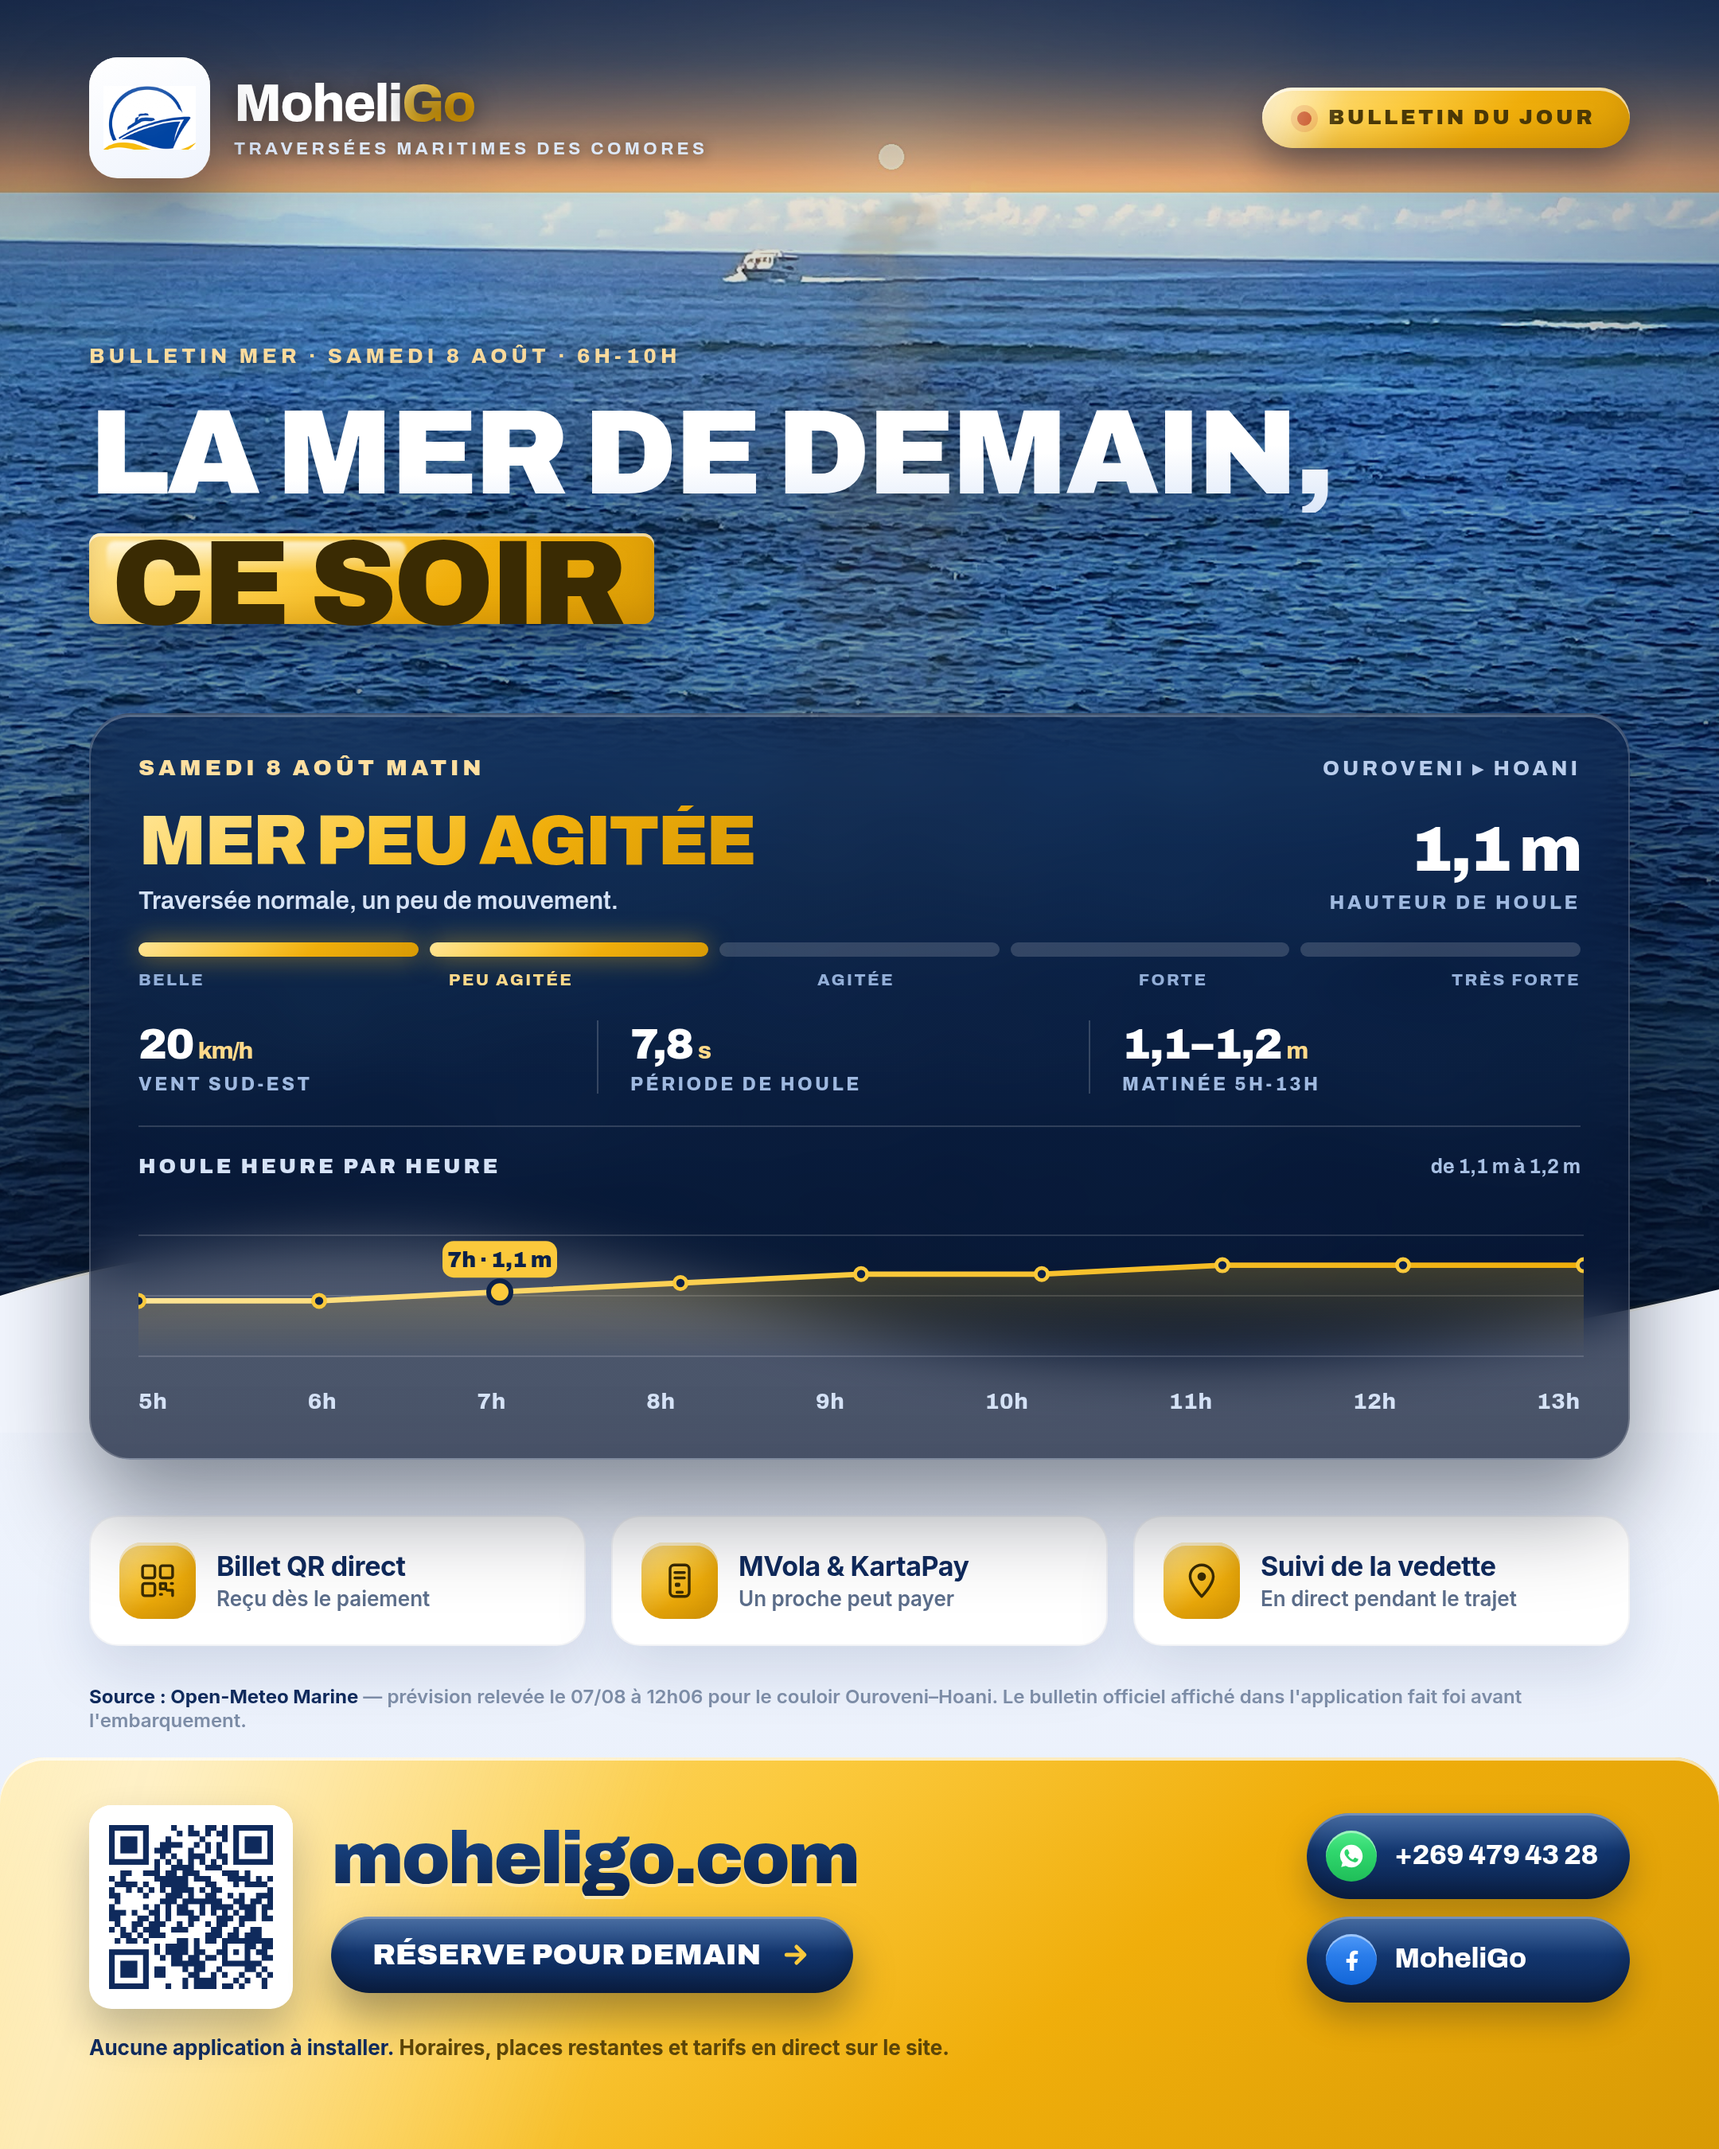
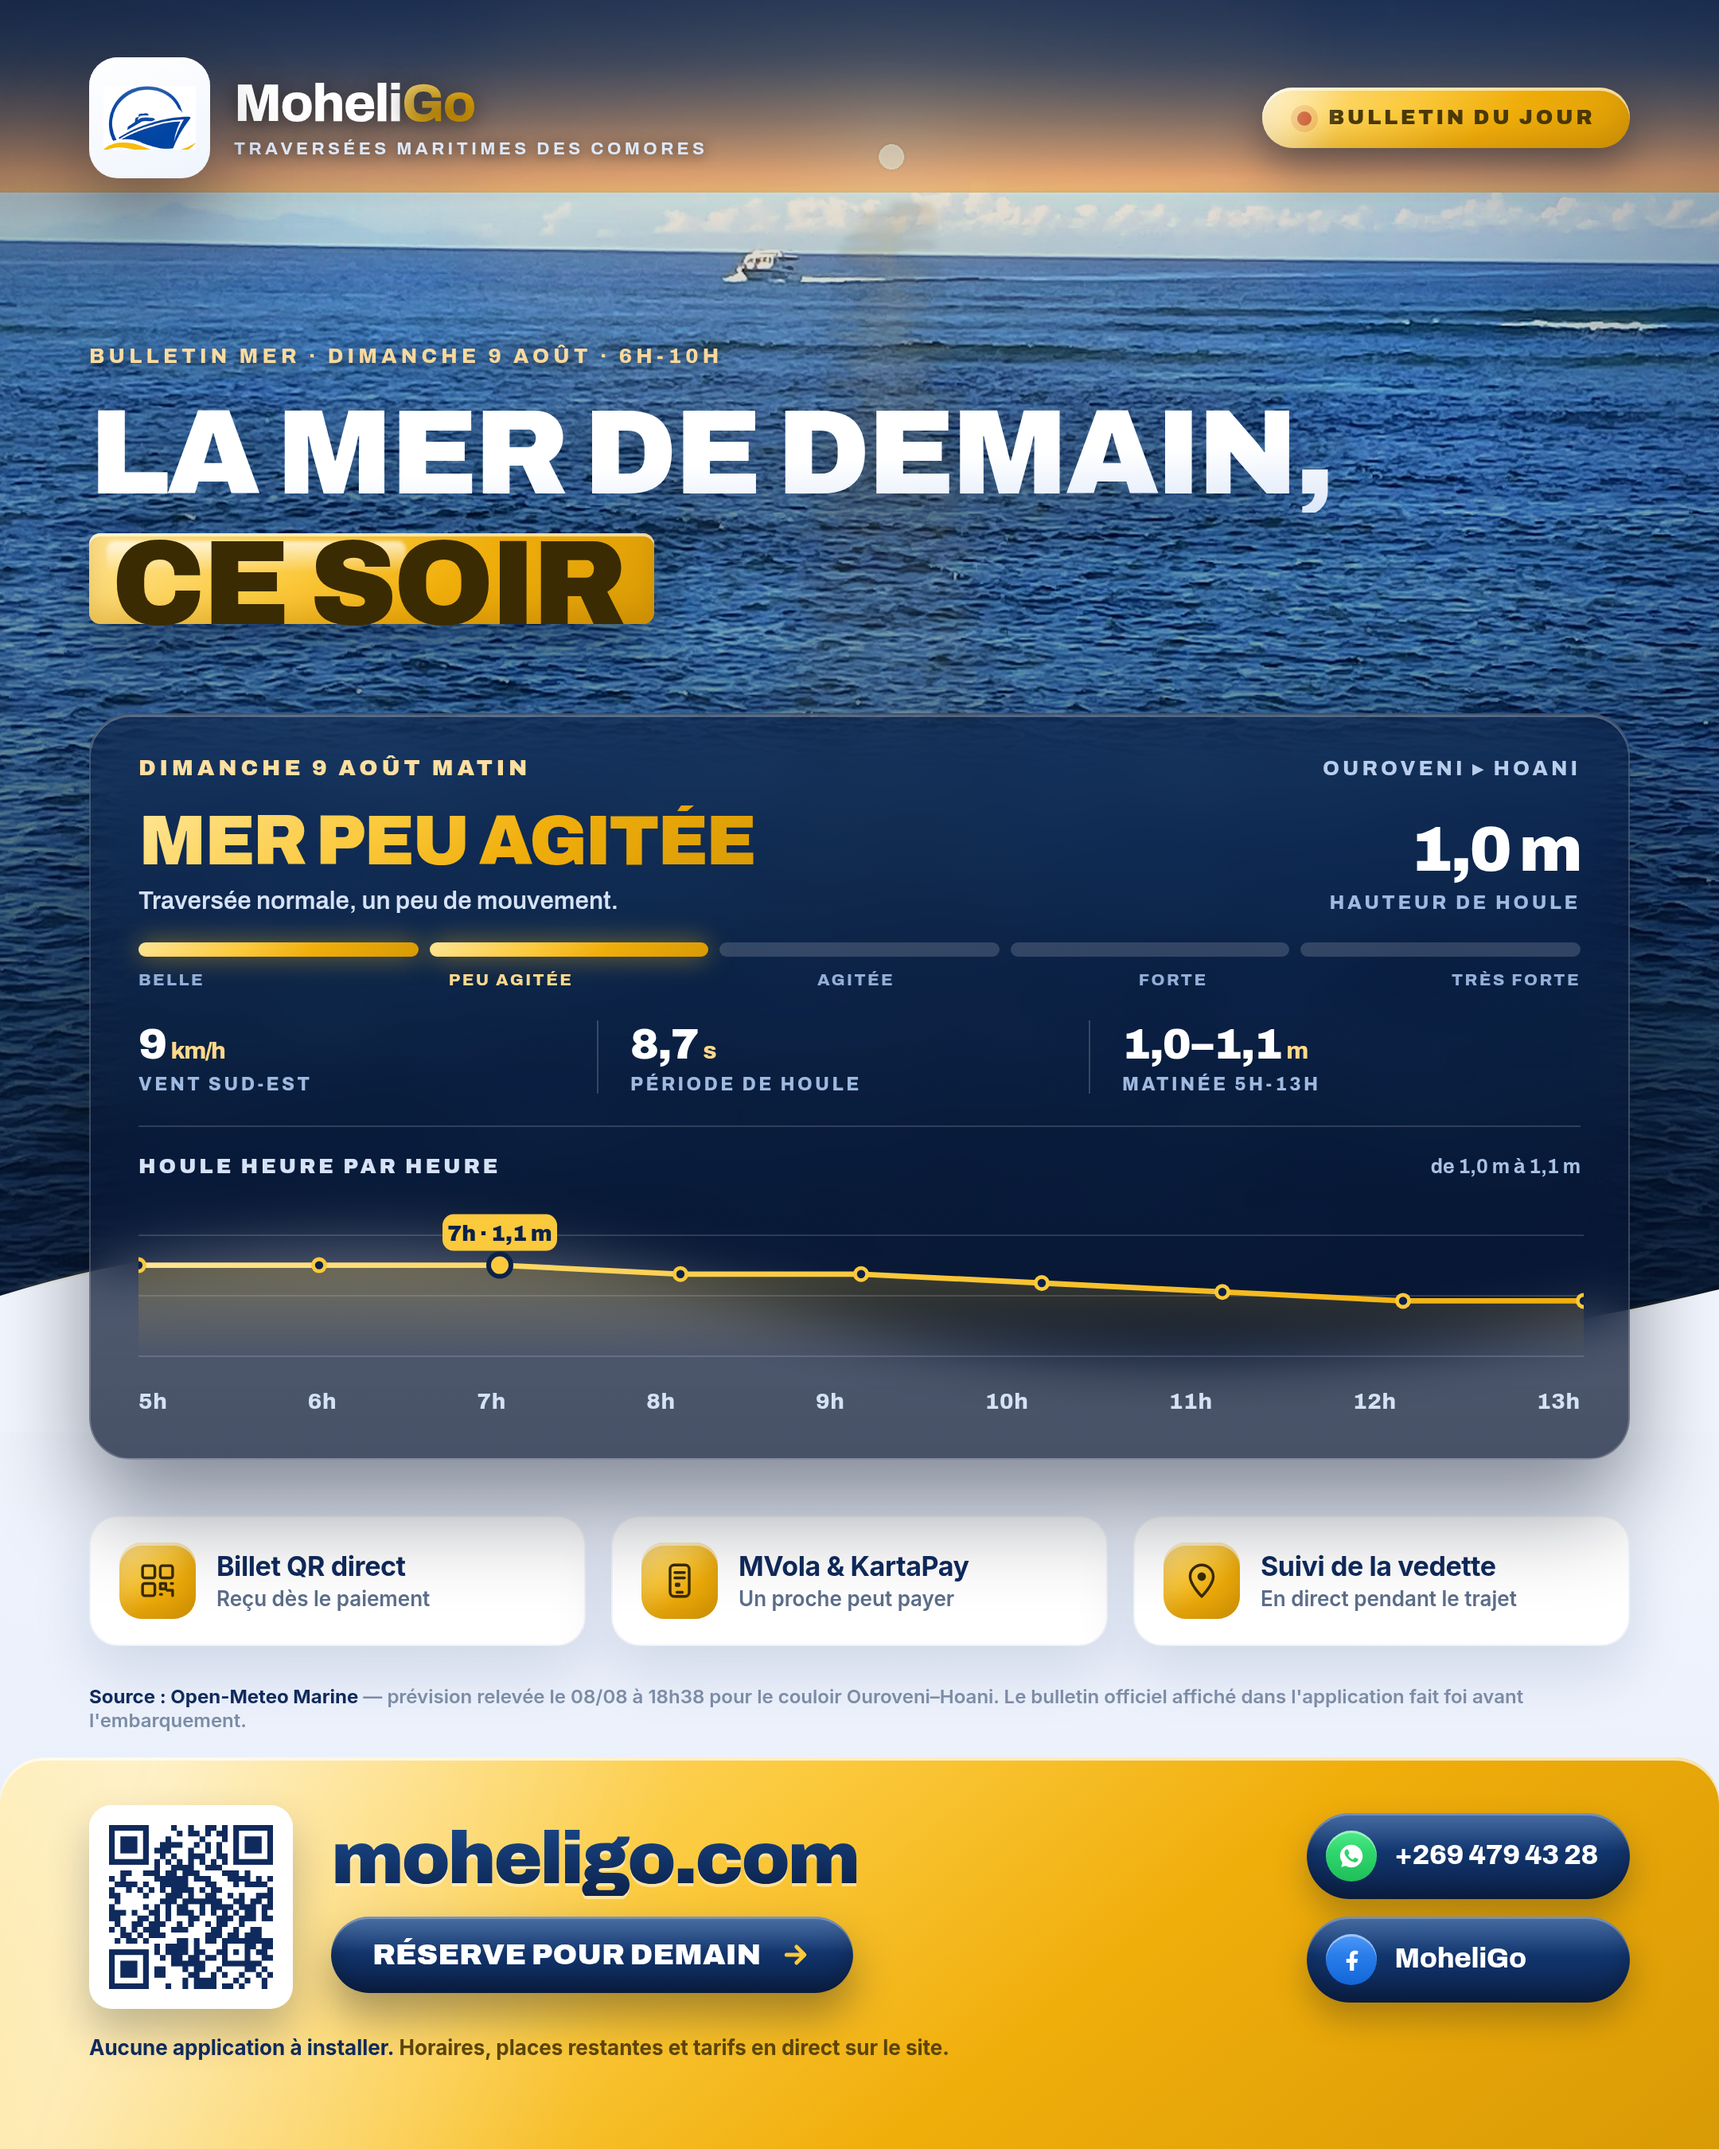
Bulletin du soir regenere pour dimanche 9 aout
La session a franchi minuit : le flyer precedent annoncait samedi 8 et etait
perime. Nouvelles valeurs Open-Meteo relevees le 08/08 a 18h38 — mer peu
agitee, houle 1,04 m, vent 9 km/h sud-est, periode 8,7 s.

MEMOIRE : lecon de livraison consignee (le patron ne voit pas les fichiers
envoyes dans la conversation ni les liens GitHub ; ce qui marche est une page
web publiee, adresse stable, rien a decider de son cote), et rappel de ne plus
empiler les versions ni les etapes.

Claude-Session: https://claude.ai/code/session_01BYJ87ihntXtVLQBUE1Jkoy

diff --git a/moheligo/pub/flyers/flyer8-soir-fb.html b/moheligo/pub/flyers/flyer8-soir-fb.html
@@ -197,29 +197,29 @@ body { width:1080px; height:1350px; font-family:'Inter',Arial,sans-serif; color:
   </div>
 
   <div class="claim">
-    <span class="over arch">BULLETIN MER · SAMEDI 8 AOÛT · 6H-10H</span>
+    <span class="over arch">BULLETIN MER · DIMANCHE 9 AOÛT · 6H-10H</span>
     <h1 class="arch"><span class="l1">LA MER DE DEMAIN,</span><span class="hl">CE SOIR</span></h1>
   </div>
 
   <div class="glass">
-    <div class="gh arch"><b>SAMEDI 8 AOÛT MATIN</b><span>OUROVENI &#9656; HOANI</span></div>
+    <div class="gh arch"><b>DIMANCHE 9 AOÛT MATIN</b><span>OUROVENI &#9656; HOANI</span></div>
 
     <div class="verdict">
       <div class="txt arch"><b>MER PEU AGITÉE</b><small>Traversée normale, un peu de mouvement.</small></div>
-      <div class="h arch"><b>1,1 m</b><small>HAUTEUR DE HOULE</small></div>
+      <div class="h arch"><b>1,0 m</b><small>HAUTEUR DE HOULE</small></div>
     </div>
 
     <div class="gauge"><div class="on"></div><div class="on"></div><div class=""></div><div class=""></div><div class=""></div></div>
     <div class="gauge-lab arch"><span class="">BELLE</span><span class="on">PEU AGITÉE</span><span class="">AGITÉE</span><span class="">FORTE</span><span class="">TRÈS FORTE</span></div>
 
     <div class="metrics arch">
-      <div class="metric"><b>20<i>km/h</i></b><small>VENT SUD-EST</small></div>
-      <div class="metric"><b>7,8<i>s</i></b><small>PÉRIODE DE HOULE</small></div>
-      <div class="metric"><b>1,1–1,2<i>m</i></b><small>MATINÉE 5H-13H</small></div>
+      <div class="metric"><b>9<i>km/h</i></b><small>VENT SUD-EST</small></div>
+      <div class="metric"><b>8,7<i>s</i></b><small>PÉRIODE DE HOULE</small></div>
+      <div class="metric"><b>1,0–1,1<i>m</i></b><small>MATINÉE 5H-13H</small></div>
     </div>
 
     <div class="chart">
-      <div class="ct arch"><b>HOULE HEURE PAR HEURE</b><span>de 1,1 m à 1,2 m</span></div>
+      <div class="ct arch"><b>HOULE HEURE PAR HEURE</b><span>de 1,0 m à 1,1 m</span></div>
       <svg width="908" height="116" viewBox="0 0 908 116" fill="none">
         <defs>
           <linearGradient id="aire" x1="0" y1="0" x2="0" y2="104" gradientUnits="userSpaceOnUse">
@@ -232,10 +232,10 @@ body { width:1080px; height:1350px; font-family:'Inter',Arial,sans-serif; color:
           </linearGradient>
         </defs>
         <path d="M0 28 H908 M0 66 H908 M0 104 H908" stroke="#FFFFFF" stroke-opacity=".15" stroke-width="1"/>
-        <path d="M0.0 69.2 L113.5 69.2 L227.0 63.6 L340.5 58.0 L454.0 52.4 L567.5 52.4 L681.0 46.8 L794.5 46.8 L908.0 46.8 L908.0 116 L0.0 116 Z" fill="url(#aire)"/>
-        <path d="M0.0 69.2 L113.5 69.2 L227.0 63.6 L340.5 58.0 L454.0 52.4 L567.5 52.4 L681.0 46.8 L794.5 46.8 L908.0 46.8" fill="none" stroke="url(#trait)" stroke-width="3.4"
+        <path d="M0.0 46.8 L113.5 46.8 L227.0 46.8 L340.5 52.4 L454.0 52.4 L567.5 58.0 L681.0 63.6 L794.5 69.2 L908.0 69.2 L908.0 116 L0.0 116 Z" fill="url(#aire)"/>
+        <path d="M0.0 46.8 L113.5 46.8 L227.0 46.8 L340.5 52.4 L454.0 52.4 L567.5 58.0 L681.0 63.6 L794.5 69.2 L908.0 69.2" fill="none" stroke="url(#trait)" stroke-width="3.4"
               stroke-linecap="round" stroke-linejoin="round"/>
-        <circle cx="0.0" cy="69.2" r="3.8" fill="#0B2149" stroke="#FBC93C" stroke-width="2.4"/><circle cx="113.5" cy="69.2" r="3.8" fill="#0B2149" stroke="#FBC93C" stroke-width="2.4"/><circle cx="227.0" cy="63.6" r="3.8" fill="#0B2149" stroke="#FBC93C" stroke-width="2.4"/><circle cx="340.5" cy="58.0" r="3.8" fill="#0B2149" stroke="#FBC93C" stroke-width="2.4"/><circle cx="454.0" cy="52.4" r="3.8" fill="#0B2149" stroke="#FBC93C" stroke-width="2.4"/><circle cx="567.5" cy="52.4" r="3.8" fill="#0B2149" stroke="#FBC93C" stroke-width="2.4"/><circle cx="681.0" cy="46.8" r="3.8" fill="#0B2149" stroke="#FBC93C" stroke-width="2.4"/><circle cx="794.5" cy="46.8" r="3.8" fill="#0B2149" stroke="#FBC93C" stroke-width="2.4"/><circle cx="908.0" cy="46.8" r="3.8" fill="#0B2149" stroke="#FBC93C" stroke-width="2.4"/><circle cx="227.0" cy="63.6" r="7" fill="#FBC93C" stroke="#0B2149" stroke-width="3"/><rect x="191.0" y="31.6" width="72" height="23" rx="7" fill="#FBC93C"/><text x="227.0" y="48.1" text-anchor="middle" font-family="Archivo,Inter,sans-serif" font-size="13.5" font-weight="900" fill="#0B2149">7h · 1,1 m</text>
+        <circle cx="0.0" cy="46.8" r="3.8" fill="#0B2149" stroke="#FBC93C" stroke-width="2.4"/><circle cx="113.5" cy="46.8" r="3.8" fill="#0B2149" stroke="#FBC93C" stroke-width="2.4"/><circle cx="227.0" cy="46.8" r="3.8" fill="#0B2149" stroke="#FBC93C" stroke-width="2.4"/><circle cx="340.5" cy="52.4" r="3.8" fill="#0B2149" stroke="#FBC93C" stroke-width="2.4"/><circle cx="454.0" cy="52.4" r="3.8" fill="#0B2149" stroke="#FBC93C" stroke-width="2.4"/><circle cx="567.5" cy="58.0" r="3.8" fill="#0B2149" stroke="#FBC93C" stroke-width="2.4"/><circle cx="681.0" cy="63.6" r="3.8" fill="#0B2149" stroke="#FBC93C" stroke-width="2.4"/><circle cx="794.5" cy="69.2" r="3.8" fill="#0B2149" stroke="#FBC93C" stroke-width="2.4"/><circle cx="908.0" cy="69.2" r="3.8" fill="#0B2149" stroke="#FBC93C" stroke-width="2.4"/><circle cx="227.0" cy="46.8" r="7" fill="#FBC93C" stroke="#0B2149" stroke-width="3"/><rect x="191.0" y="14.799999999999997" width="72" height="23" rx="7" fill="#FBC93C"/><text x="227.0" y="31.299999999999997" text-anchor="middle" font-family="Archivo,Inter,sans-serif" font-size="13.5" font-weight="900" fill="#0B2149">7h · 1,1 m</text>
       </svg>
       <div class="hours arch"><span>5h</span><span>6h</span><span>7h</span><span>8h</span><span>9h</span><span>10h</span><span>11h</span><span>12h</span><span>13h</span></div>
     </div>
@@ -262,7 +262,7 @@ body { width:1080px; height:1350px; font-family:'Inter',Arial,sans-serif; color:
     </div>
   </div>
 
-  <div class="source"><b>Source : Open-Meteo Marine</b> — prévision relevée le 07/08 à 12h06 pour le couloir Ouroveni–Hoani.
+  <div class="source"><b>Source : Open-Meteo Marine</b> — prévision relevée le 08/08 à 18h38 pour le couloir Ouroveni–Hoani.
     Le bulletin officiel affiché dans l'application fait foi avant l'embarquement.</div>
 
   <div class="cta">

diff --git a/moheligo/MEMOIRE.md b/moheligo/MEMOIRE.md
@@ -328,6 +328,22 @@ recharger ce sujet ici, ce n'est pas du marketing.
 
 ## 6. Journal des sessions
 
+- **08/08/2026, 18h40 (Comores)** — La session a franchi minuit : attention, le
+  flyer du soir généré la veille annonçait « samedi 8 » et était donc périmé.
+  Regénéré pour **dimanche 9 août** (mer peu agitée, houle 1,0 m, vent 9 km/h
+  sud-est, matin dégagé, pluie fine l'après-midi).
+  **Leçon de livraison, la plus importante de la session** : le patron ne
+  voyait pas les fichiers envoyés dans la conversation (« je trouve pas »,
+  « toujours pas »), et les liens GitHub ne lui parlent pas. Ce qui marche :
+  une **page web publiée** (artifact) avec les flyers en grand, un appui long
+  pour enregistrer, le texte du post et un bouton copier. L'adresse reste la
+  même quand on republie — la lui redonner au lieu d'en créer une nouvelle :
+  https://claude.ai/code/artifact/d08c3def-2c4b-418a-b7bd-b19c477df307
+  ⚠ Il a dit aussi : « le projet me fatigue mentalement ». Ne plus empiler les
+  versions ni les étapes à faire de son côté : **une page, deux flyers, rien à
+  décider.** Le tuyau automatique, la fusion dans main et la publication
+  Facebook attendent qu'il les redemande.
+
 - **07/08/2026 (fin de journée)** — Demande : « un flyer pour cette aprem ou ce
   soir, avec une amélioration très avancée ». Créé **le bulletin du soir** :
   un flyer qui affiche **la vraie mer de demain matin** sur le couloir
